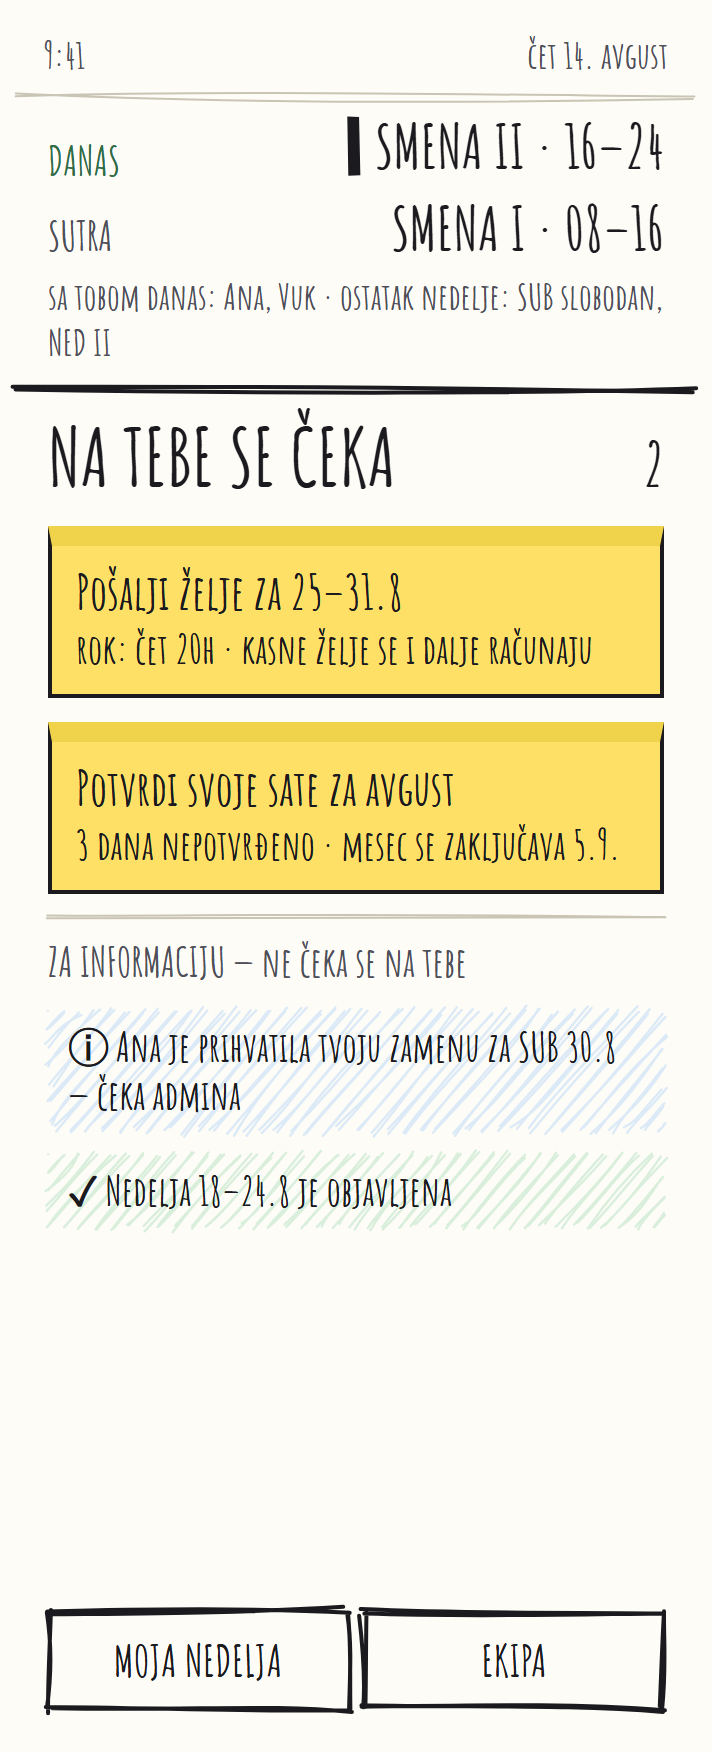
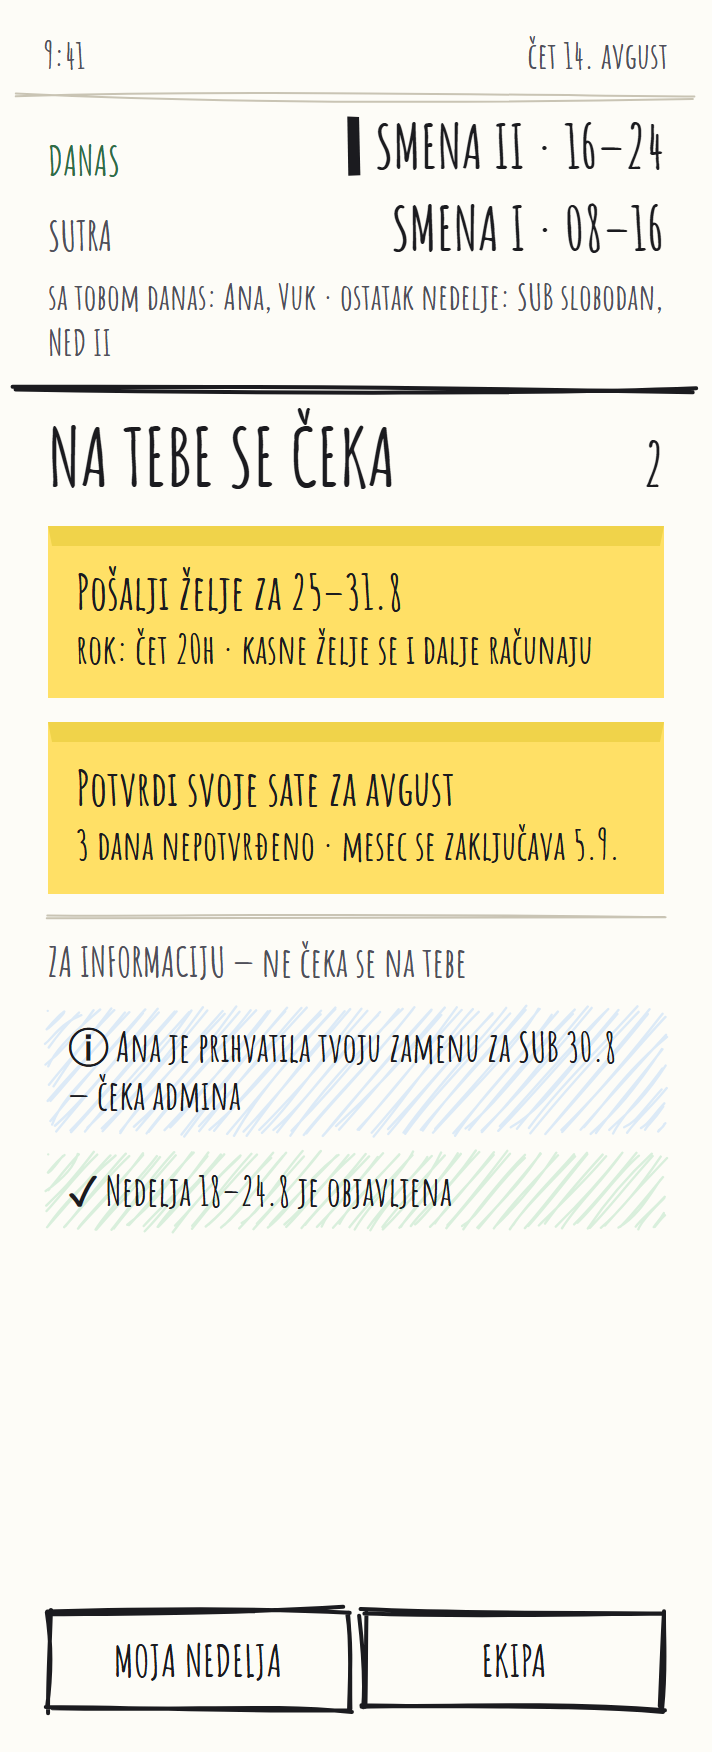
Take the black border off the sticky notes
board-tab.tsx gives a note card no border at all: a fill, a solid head strip
and a small skew, nothing else. The artboard drew 2px black on three sides,
which the previous pass kept because it was skipping notes wholesale. Now the
sides go transparent and only the flap reads as an edge.

diff --git a/tools/sketch-pass.js b/tools/sketch-pass.js
@@ -113,8 +113,14 @@ function sketch(seed) {
       color: cs[`border${s}Color`],
     }));
 
-    // Leave the note exactly as the CSS drew it, fill and flap included.
-    if (isStickyNote(sides)) continue;
+    // A note keeps its fill and its flap, and loses everything else. The app
+    // gives the card no border at all: only the head strip reads as an edge.
+    if (isStickyNote(sides)) {
+      el.style.borderRightColor = 'transparent';
+      el.style.borderBottomColor = 'transparent';
+      el.style.borderLeftColor = 'transparent';
+      continue;
+    }
 
     const bg = cs.backgroundColor;
     if (bg && bg !== TRANSPARENT && bg !== PAPER) {
